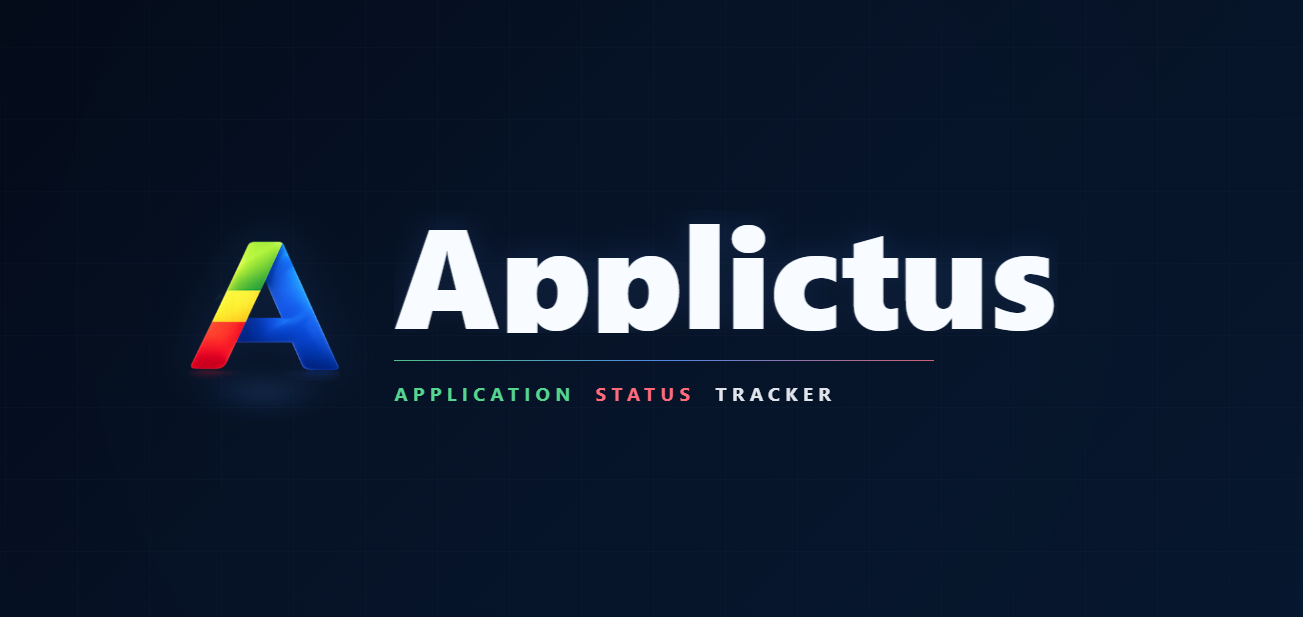
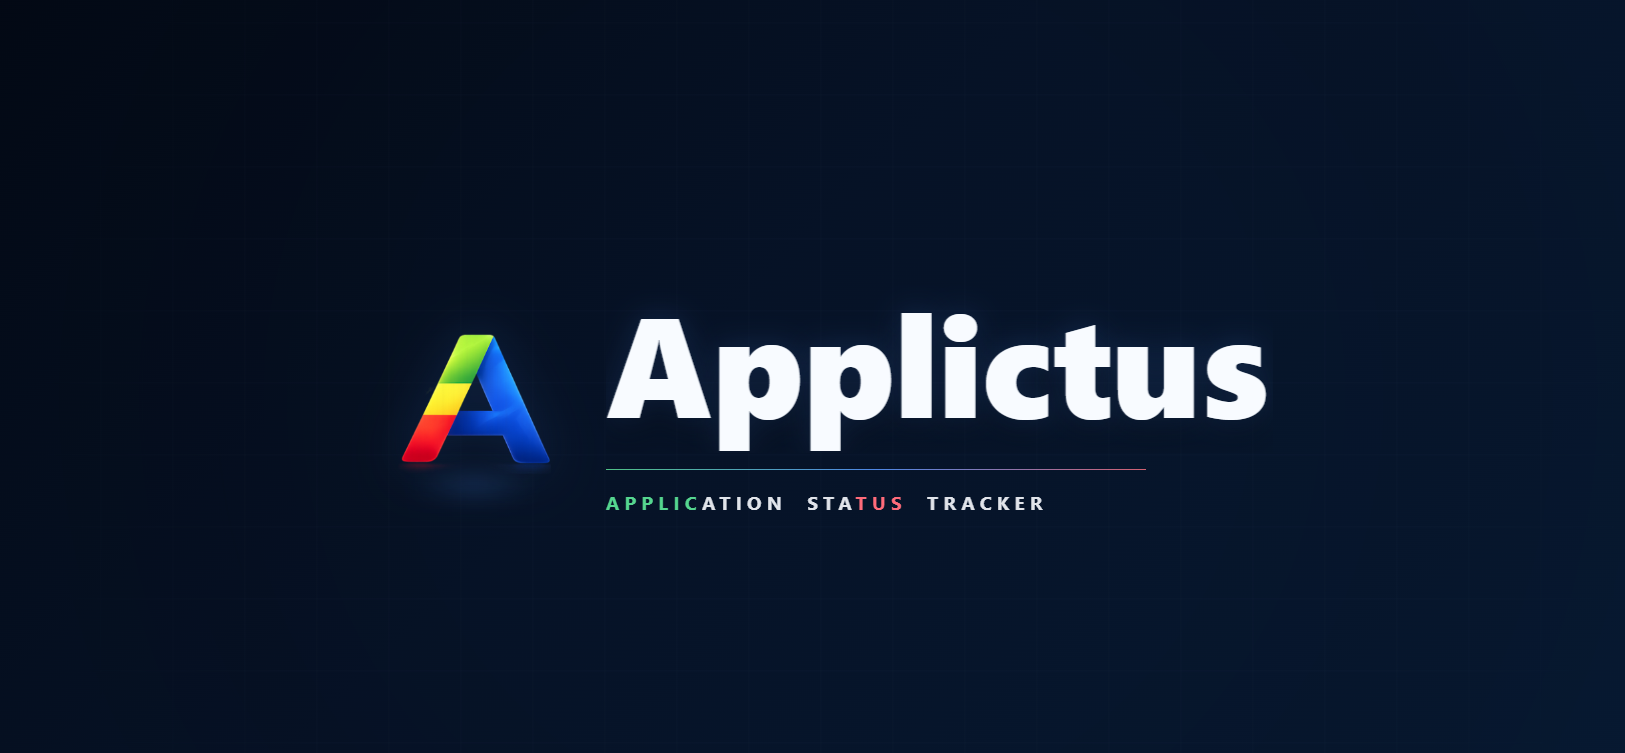
Added animation page

Changed region(s): [[0.1228, 0.3387, 0.8289, 0.6775], [0.6754, 0.6159, 0.7061, 0.6467], [0.1842, 0.6159, 0.2149, 0.6467]]

diff --git a/public/animation.html b/public/animation.html
@@ -117,7 +117,7 @@
     .particle:nth-child(8) { left: 52%; top: 78%; animation-delay: 0.8s; }
 
     .brand-lockup {
-      --icon-size: clamp(128px, 8vw, 164px);
+      --icon-size: clamp(142px, 8.9vw, 182px);
       --intro-offset: clamp(220px, 17vw, 340px);
       position: relative;
       z-index: 2;
@@ -125,7 +125,7 @@
       grid-template-columns: var(--icon-size) minmax(0, auto);
       align-items: center;
       justify-content: center;
-      gap: clamp(28px, 3vw, 54px);
+      gap: clamp(24px, 2.4vw, 42px);
       width: min(1120px, calc(100vw - 112px));
       min-height: min(420px, calc(100vh - 120px));
     }
@@ -185,6 +185,8 @@
       display: grid;
       align-content: center;
       justify-items: start;
+      width: max-content;
+      max-width: 100%;
       min-width: 0;
       transform: translateY(5px);
     }
@@ -193,7 +195,7 @@
       margin: -0.02em 0 -0.08em;
       padding: 0.02em 0.02em 0.14em 0;
       color: var(--white);
-      font-size: clamp(84px, 7.4vw, 142px);
+      font-size: clamp(80px, 6.95vw, 134px);
       font-weight: 800;
       line-height: 1.02;
       letter-spacing: 0;
@@ -208,8 +210,9 @@
     }
 
     .divider {
-      width: min(540px, 100%);
+      width: calc(100% + 12px);
       height: 1px;
+      margin-left: -6px;
       margin-top: clamp(20px, 1.6vw, 28px);
       overflow: hidden;
       background: rgba(205, 222, 247, 0.2);
@@ -234,7 +237,7 @@
       gap: clamp(12px, 1.3vw, 20px);
       margin-top: clamp(14px, 1.2vw, 20px);
       color: var(--muted);
-      font-size: clamp(13px, 1vw, 19px);
+      font-size: clamp(15px, 1.12vw, 22px);
       font-weight: 760;
       letter-spacing: 0.28em;
       line-height: 1.35;

diff --git a/web/animation.html b/web/animation.html
@@ -117,7 +117,7 @@
     .particle:nth-child(8) { left: 52%; top: 78%; animation-delay: 0.8s; }
 
     .brand-lockup {
-      --icon-size: clamp(128px, 8vw, 164px);
+      --icon-size: clamp(142px, 8.9vw, 182px);
       --intro-offset: clamp(220px, 17vw, 340px);
       position: relative;
       z-index: 2;
@@ -125,7 +125,7 @@
       grid-template-columns: var(--icon-size) minmax(0, auto);
       align-items: center;
       justify-content: center;
-      gap: clamp(28px, 3vw, 54px);
+      gap: clamp(24px, 2.4vw, 42px);
       width: min(1120px, calc(100vw - 112px));
       min-height: min(420px, calc(100vh - 120px));
     }
@@ -185,6 +185,8 @@
       display: grid;
       align-content: center;
       justify-items: start;
+      width: max-content;
+      max-width: 100%;
       min-width: 0;
       transform: translateY(5px);
     }
@@ -193,7 +195,7 @@
       margin: -0.02em 0 -0.08em;
       padding: 0.02em 0.02em 0.14em 0;
       color: var(--white);
-      font-size: clamp(84px, 7.4vw, 142px);
+      font-size: clamp(80px, 6.95vw, 134px);
       font-weight: 800;
       line-height: 1.02;
       letter-spacing: 0;
@@ -208,8 +210,9 @@
     }
 
     .divider {
-      width: min(540px, 100%);
+      width: calc(100% + 12px);
       height: 1px;
+      margin-left: -6px;
       margin-top: clamp(20px, 1.6vw, 28px);
       overflow: hidden;
       background: rgba(205, 222, 247, 0.2);
@@ -234,7 +237,7 @@
       gap: clamp(12px, 1.3vw, 20px);
       margin-top: clamp(14px, 1.2vw, 20px);
       color: var(--muted);
-      font-size: clamp(13px, 1vw, 19px);
+      font-size: clamp(15px, 1.12vw, 22px);
       font-weight: 760;
       letter-spacing: 0.28em;
       line-height: 1.35;
